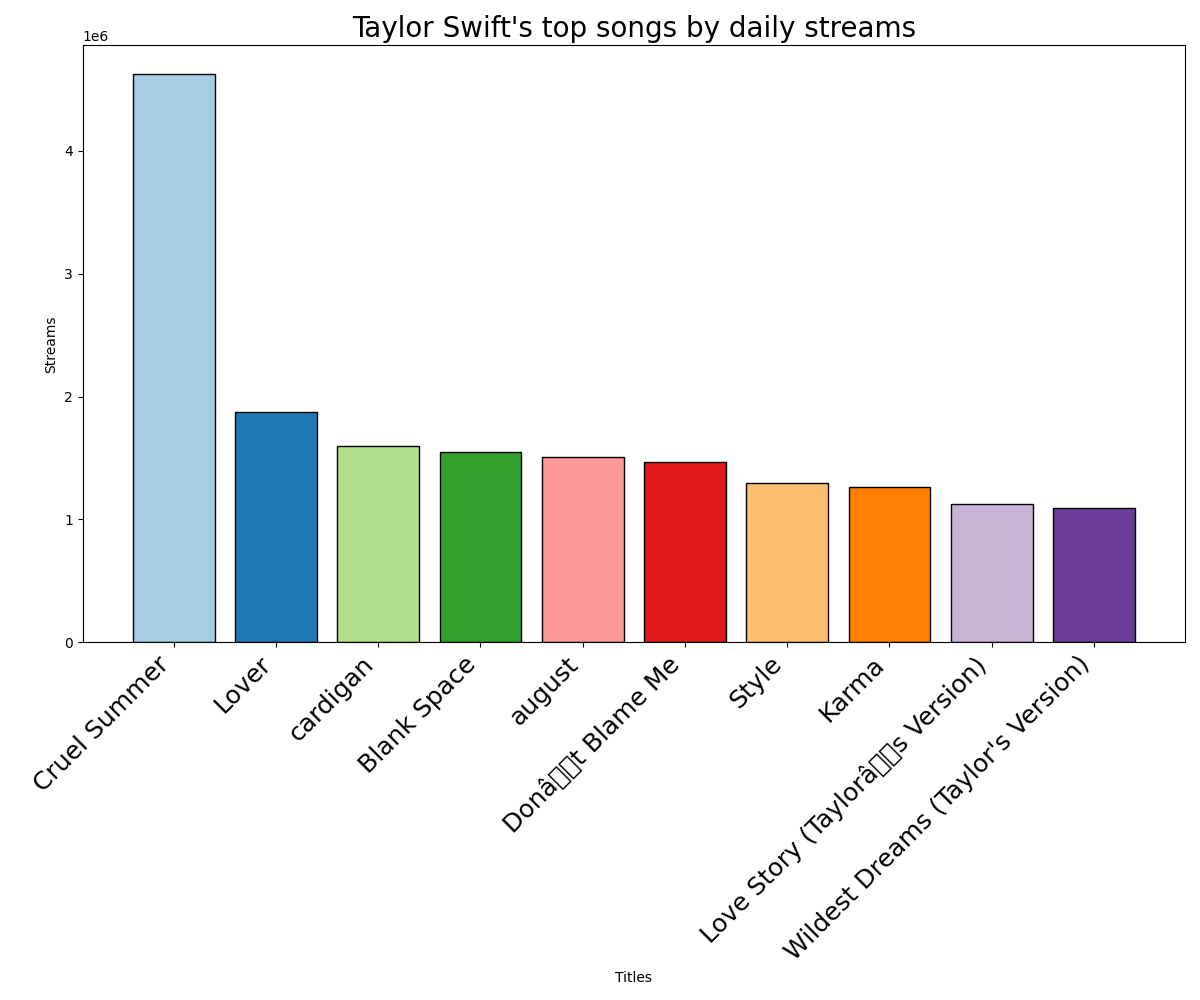
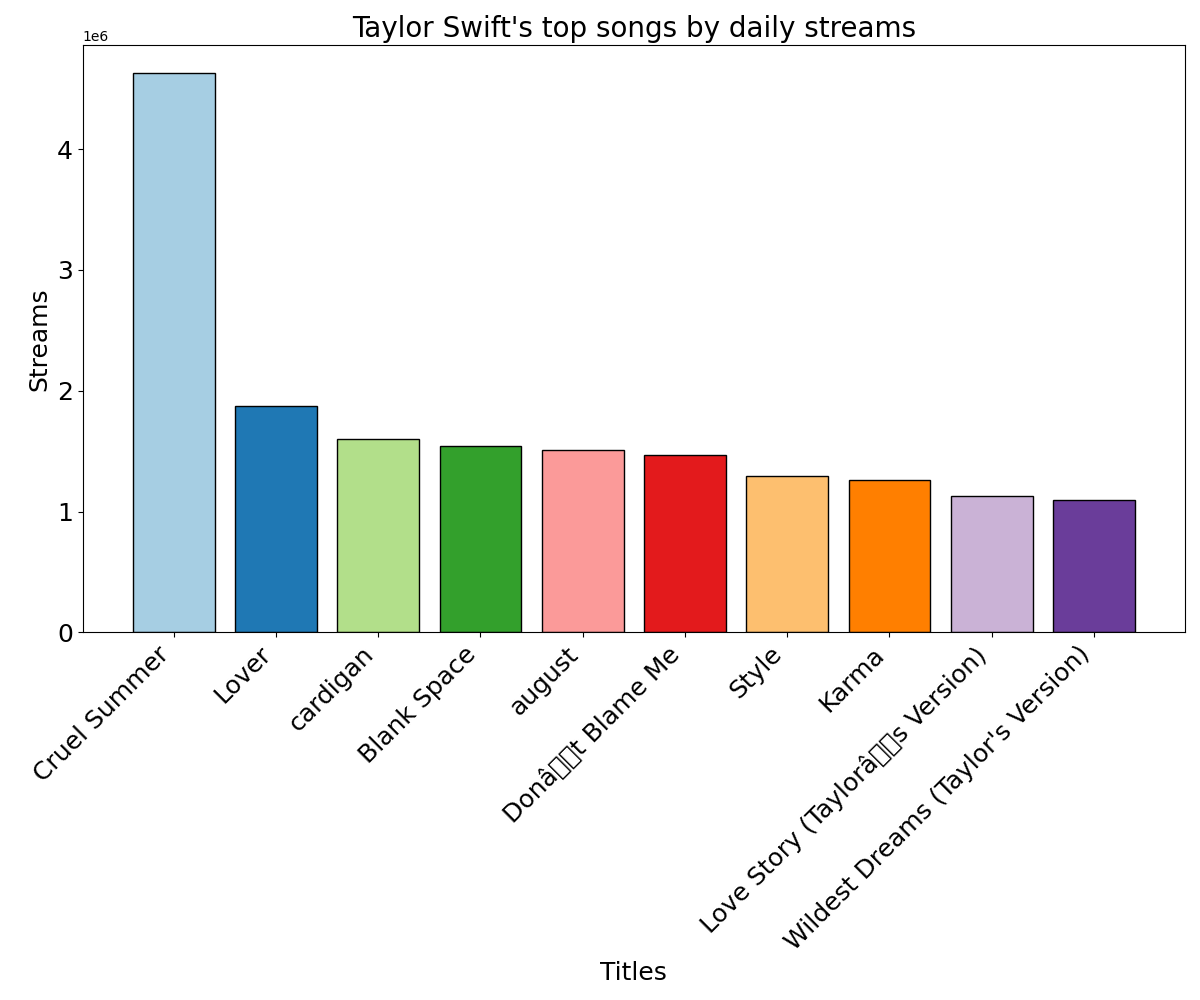
nearly finished

diff --git a/webpage/templates/artists.html b/webpage/templates/artists.html
@@ -7,11 +7,75 @@
     <title>Enter an Artist's Name</title>
 </head>
 
+<style>
+
+body {
+    display: flex;
+    align-items: center;
+    justify-content: center;
+    flex-direction: column;
+    height: 100vh;
+    margin: 0;
+    background: linear-gradient(-45deg, #ee7752, #e73c7e, #23a6d5, #23d5ab);
+    background-size: 400% 400%;
+    animation: gradient 15s ease infinite;
+}
+
+form {
+    text-align: center;
+    display: flex;
+    flex-direction: column;
+    align-items: center;
+    justify-content: center;
+}
+
+label {
+    display: block;
+    margin-bottom: 10px;
+}
+
+input {
+    width: 100%;
+    padding: 10px;
+    box-sizing: border-box;
+    margin-bottom: 20px;
+    border: silver 1px solid;
+}
+
+input[type="submit"] {
+    padding: 30px 30px;
+            font-size: 24px;
+            border: hwb(from color h w b);
+            border-radius: 15px;
+            cursor: pointer;
+            margin: 10px;
+            background: linear-gradient(to right, #ffffff, #e0e0e0);
+            box-shadow: 0 4px 6px rgba(0, 0, 0, 0.1);
+            transition: background 0.3s ease, box-shadow 0.3s ease;
+            position: relative;
+            overflow: hidden;
+}
+
+input:hover {
+    background: linear-gradient(to right, #ffffff, #f0f0f0);
+            box-shadow: 0 4px 8px rgba(0, 0, 0, 0.5);
+}
+
+h1 {
+    color: white;
+    font-size: 80px;
+    margin-bottom: 20px;
+    -webkit-text-stroke: black 1px;
+    padding: 10px;
+}
+
+</style>
+
 <body>
-    <h1>Enter an Artist's Name:</h1>
+    <h1>Enter an Artist's Name :</h1>
 
     <form action="/artists" method="post">
-        <label for="artist_name">Artist Name:</label>
+        <!-- <label for="artist_name">Artist Name:</label> -->
         <input type="text" id="artist_name" name="artist_name" required>
         <input type="submit" value="Submit">
     </form>

diff --git a/webpage/templates/artists_visualizations.html b/webpage/templates/artists_visualizations.html
@@ -6,8 +6,8 @@
     <title>Visualizations</title>
     <style>
         body {
-            background-color: black;
-            color: white; /* Set text color to white for better readability on a black background */
+            background-color: white;
+            color: white;
         }
 
         h1 {
@@ -20,6 +20,8 @@
         img {
             margin: 10px auto;
             display: block;
+            width : 60%;
+            height: 60%;
         }
     </style>
 </head>

diff --git a/webpage/templates/main.html b/webpage/templates/main.html
@@ -80,6 +80,8 @@
             color: white;
             padding: 10px;
             font-family: 'Arial', sans-serif;
+            -webkit-text-stroke: black 1px;
+            padding: 10px;
         }
 
     </style>

diff --git a/webpage/app.py b/webpage/app.py
@@ -30,8 +30,8 @@ def plot_artist_album_chart(artist):
     # Create the bar chart
     plt.figure(figsize=(12, 8))
     plt.bar(titles, album_streams, color=cm.Paired.colors, edgecolor='black')
-    plt.xlabel('Titles')
-    plt.ylabel('Album Streams')
+    plt.xlabel('Titles', fontsize=18)
+    plt.ylabel('Album Streams', fontsize=18)
     title = f"{artist}'s most streamed albums among the top 200"
     plt.title(title, fontsize=20)
     
@@ -53,9 +53,9 @@ def plot_artist_songs_chart(artist):
     titles, daily_streams = zip(*data)
 
     # query the database
-    plt.subplots(figsize=(15, 12))
-    plt.pie(daily_streams, autopct='%1.1f%%', startangle=140, colors=plt.cm.Paired.colors)
-    plt.legend(titles, title='Track Legend', bbox_to_anchor=(1, 0.5), loc="center", fontsize='small')
+    plt.subplots(figsize=(25, 25))
+    plt.pie(daily_streams, autopct='%1.1f%%', startangle=140, colors=plt.cm.Paired.colors, textprops={'fontsize': 18})
+    plt.legend(titles, title='Track Legend', bbox_to_anchor=(1, 0.5), loc="center", fontsize='large', title_fontsize='xx-large')
 
     plt.axis('equal')
     plt.tight_layout()
@@ -72,8 +72,8 @@ def build_artist_top_songs_by_daily_streams(artist):
     titles, daily_streams = zip(*data)
 
     plt.subplots(figsize=(10, 8))
-    plt.pie(daily_streams, autopct='%1.1f%%', startangle=140, colors=plt.cm.Paired.colors)
-    plt.legend(titles, title='Track Legend', bbox_to_anchor=(1, 0.5), loc="center", fontsize='small')
+    plt.pie(daily_streams, autopct='%1.1f%%', startangle=140, colors=plt.cm.Paired.colors, textprops={'fontsize': 18})
+    plt.legend(titles, title='Track Legend', bbox_to_anchor=(1, 0.5), loc="center", fontsize='small', title_fontsize='medium')
 
     plt.axis('equal') 
     plt.title(f"{artist}'s top songs by daily streams", fontsize=20)
@@ -84,11 +84,12 @@ def build_artist_top_songs_by_daily_streams(artist):
     # create bar chart
     plt.figure(figsize=(12, 10))
     plt.bar(titles, daily_streams, color=cm.Paired.colors, edgecolor='black')
-    plt.xlabel('Titles')
-    plt.ylabel('Streams')
+    plt.xlabel('Titles', fontsize=18)
+    plt.ylabel('Streams', fontsize=18)
     title = f"{artist}'s top songs by daily streams"
     plt.title(title, fontsize=20)
-    plt.xticks(rotation=45, ha='right', fontsize=18) 
+    plt.xticks(rotation=45, ha='right', fontsize=18)
+    plt.yticks(fontsize=18)
     plt.tight_layout()
     plt.savefig('./static/visualizations/artist_daily_bar.png')
 
